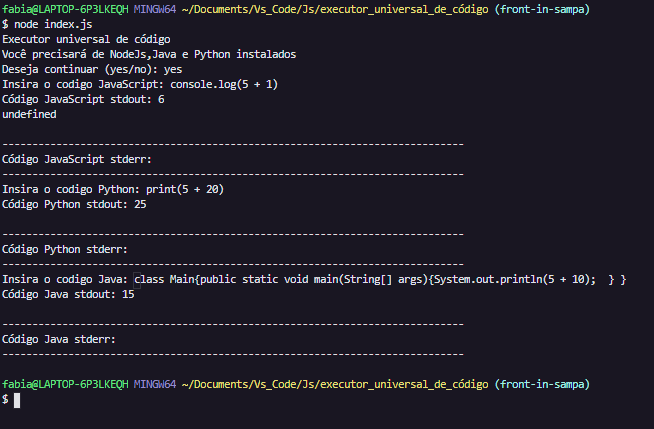
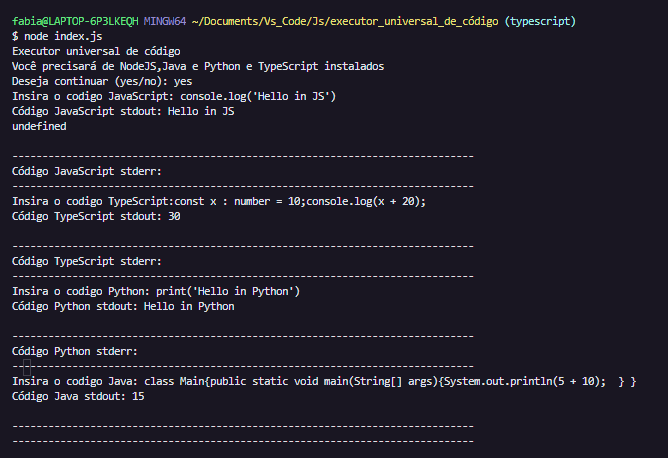
TypeScript added

diff --git a/index.js b/index.js
@@ -2,11 +2,11 @@ const { exec } = require('shelljs');
 const readline = require('readline-sync');
 
 console.log("Executor universal de código")
-console.log("Você precisará de NodeJs,Java e Python instalados")
+console.log("Você precisará de NodeJS,Java e Python e TypeScript instalados")
 
-const willContinue = readline.question('Deseja continuar (yes/no): ')
-if(willContinue.match(/no/gi) !== null || willContinue.match(/nao/gi)){
-    process.exit(0);
+const codeWillContinue = readline.question('Deseja continuar (yes/no): ')
+if(codeWillContinue.match(/no/gi) !== null || codeWillContinue.match(/nao/gi) !== null) {
+    codeWillContinue.exit(0);
 }
 
 const separeOutput = () => console.log('-----------------------------------------------------------------------------')
@@ -20,6 +20,10 @@ const showResultOfCoding = (language,code) => {
 const requestJS = readline.question('Insira o codigo JavaScript: ')
 const codigoJS = exec(`node -p "${requestJS}"`,{ silent: true})
 showResultOfCoding('JavaScript',codigoJS)
+
+const requestTS = readline.question('Insira o codigo TypeScript:')
+const codigoTS = exec(`echo ${requestTS} > main.ts && tsc main.ts && node main.js`,{ silent: true})
+showResultOfCoding('TypeScript',codigoTS)
 
 const requestPython = readline.question('Insira o codigo Python: ')
 const codigoPython = exec(`echo ${requestPython} > arquivo.py && python arquivo.py`,{ silent: true});

diff --git a/main.ts b/main.ts
@@ -1,0 +1,1 @@
+const x : number = 10;console.log(x + 20);  

diff --git a/main.js b/main.js
@@ -1,0 +1,2 @@
+var x = 10;
+console.log(x + 20);

diff --git a/arquivo.py b/arquivo.py
@@ -1,1 +1,1 @@
-print(5 + 20)  
+print('Hello in Python')  
